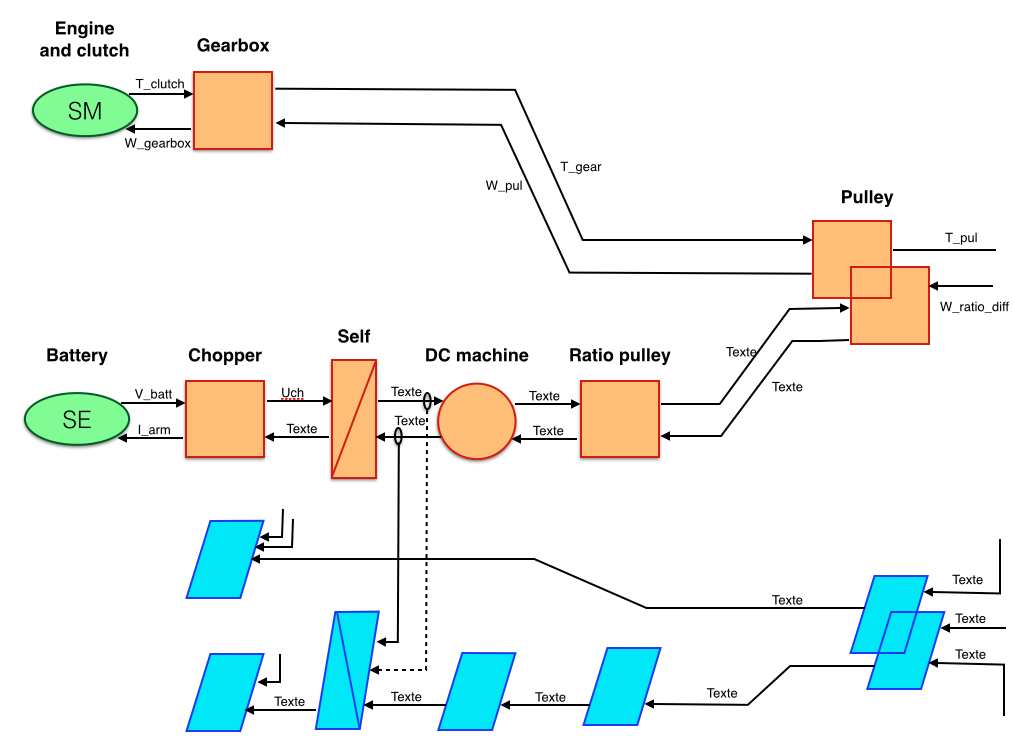
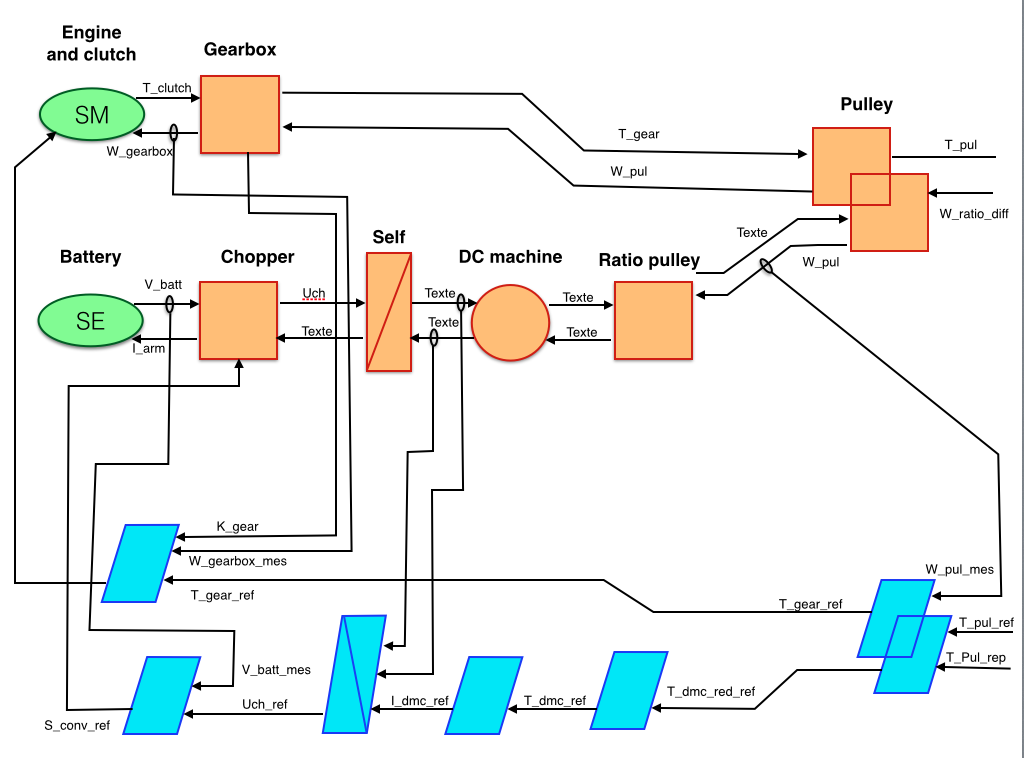
mise à jour des photos

diff --git a/VEH/includes/rem.tex b/VEH/includes/rem.tex
@@ -1,1 +1,10 @@
-\section{REM}
+\section{Représentatiob énergétique Macroscopique du véhicule électrique hybrique}
+
+\subsection{Équations du système}
+
+Si l'on veut construire la REM d'un système, il faut dans un premier temps écrire les équations qui régissent chaques éléments du sytèmes. 
+
+
+\subsection{REM du système}
+%The system can be decomposed inti subsystems in interactions using 4 basic EMR elements (Table 1) :
+Une fois cette étape réalisée, on construite la REM du sytèmes. Pour cela on décompose le système en sous-systèmes (XXX besoin d'aide pour finir cette phrase correctement)...

diff --git a/VEH/includes/intro.tex b/VEH/includes/intro.tex
@@ -32,3 +32,7 @@
 
 % XXX je voudrais placer cette image juste après le texte et je n'y arrive pas !!!!
 		
+		
+%Véhicule hybride
+%Intérêt de la simulation (coût pour développement de la SMC/Strat)
+%Intérêt de la strat

diff --git a/VEH/includes/conclu.tex b/VEH/includes/conclu.tex
@@ -1,1 +1,5 @@
 \section{Conclusion}
+
+
+
+%annexe : procedure de simulation
